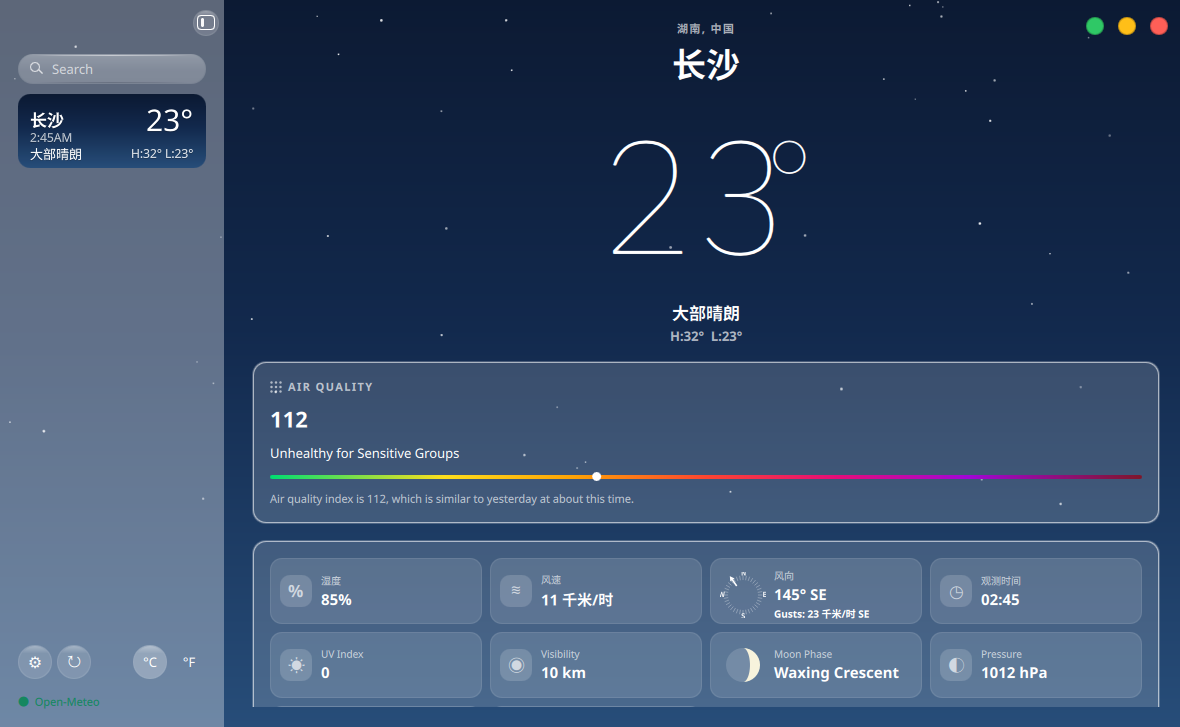
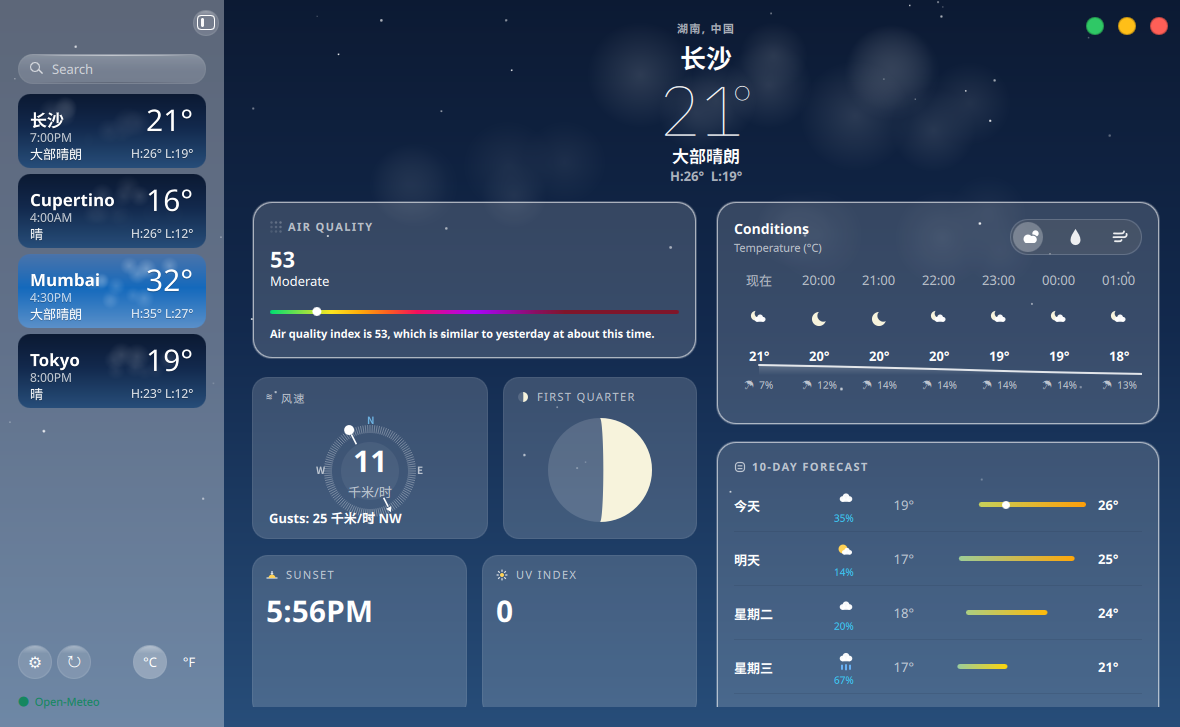
docs: round 48 进度与截图

diff --git a/docs/ui-weather/LEDGER.md b/docs/ui-weather/LEDGER.md
@@ -4,6 +4,8 @@
 参考实测色（814×498 主图采样）：天空 `#2961a7→#1469bc→#538ec9`（上→下，含云照片）；Conditions 卡 `#0057b2`；hero 文本 `#ffffff`；10天条渐变 青→黄→橙。
 
 ## 已改
+- **侧栏多城渲染实拍验证（本轮，纯验证/运维轮，零代码改动）**：dev state `/tmp/kos-weather-test-state/quickshell/shell-data-service/state.json` 的 `weather.locations` 追加 Cupertino(37.32,-122.03, America/Los_Angeles)/Mumbai(19.08,72.88, Asia/Kolkata)/Tokyo(35.69,139.69, Asia/Tokyo) 三城（≤20 城限额内）；service 重启后因 `nextRefreshAt` 未到不拉取（weather.go:755 门控）——置 0 再重启强制刷新后 4 城 summary 全部取到（长沙 20.6 夜 / Cupertino 15.7 夜 / Mumbai 32.3 昼 / Tokyo 19.2 夜）。
+  **实测**（截图 1792321838 过体检闸 ✅ 1180×727，本轮二进制 dev env）：4 城卡正确渲染——各城当地时间按各自时区（4:00AM/4:30PM/8:00PM）、温度/H·L 与 summary 一致（32.3→32°、35/27）、Mumbai 昼卡云纹理在场、夜卡月牙/淡云正常、选中卡（长沙）在顶无选中描边（贴参考）。同轮对照 tile-sidebar 参考逐项核对：结构吻合（城市名/副行/条件文字左下/H·L 右下/无边框选中态）。**顺带复核**（截图 1792321463，单城态）：左列 masonry 残差收口（见仍差 0 条勘误注）。测试 Qt 6/6 绿、go test ok。**新发现记入仍差 0d**：参考选中卡副行是 "My Location" 而非时间。
 - **10 天行温度区间条去灰色轨道（本轮，前端，零 Go/C++/shared/翻译改动，巡检轮新发现）**：巡检截图（tmp/shots/patrol-1792320809.png 过体检闸 ✅ 1180×727，dev env + KOS_SCREENSHOT_DELAY_MS=2500）对照 ref-main 逐像素测量发现——参考 10 天行**没有灰色轨道**：Thu 行（y384）渐变墨迹单独落在 x642-698（56px），其外 x702-714 采样 = 纯卡面色 (42,109,179) 与卡面其他位置同值、无任何轨道；且 5 行墨迹起止与"按全周 [最低低/最高高] 定位"模型全部吻合（低 54→x642、低 57→x648-650，~2.3px/°@814；Today 650-692、Thu 642-698、Fri 642-689、Sat 648-692，含 Today 行白点 x674-677）。我方旧轨道 Rectangle（白@0.28）实测 (117,135,159) vs 卡面 (64,89,122)，Δ+53 明显可见，属参考图不存在的发明元素。`apps/weather/qml/Main.qml` 删除 dailyRow 条形内轨道 Rectangle（原 3169-3175，7 行），渐变段与 Today 白点不动，原位补 ref 依据注释（现 3169）。
   **实测**（本轮二进制截图 tmp/shots/notrack-1792321260.png 过体检闸 ✅ 1180×727）：原轨道区 x920-970（今天行 y504）现采样 = 纯卡面 (64,89,122)，轨道消失；渐变墨迹 x~975-1085 与 Today 白点 (255,255,255)@x1010 保持原位；目视 /tmp/z-notrack.png：四行纯渐变段按周范围定位、无灰底、无裁切。
   **回归**（vs 改前 patrol-1792320809，2px 步进 diff>24）：变化 441 采样，429 落 10 天条形区 (890-1160 × 455-727)（轨道消除本体），卡外仅 12 稀疏采样 (74,2)-(994,498)（星空/时钟已知噪声族），整窗 MAE **0.092**——hero/侧栏/Conditions/瓦片零结构位移。qmllint 0 error（本轮裸路径跑法，warning 口径与既往不同未比较）。测试 Qt 6/6 绿、go test ok。本轮无动效改动，无帧差义务。
@@ -328,10 +330,13 @@
 - `shared/qml/foundation/KosApplicationWindow.qml:20`：按用户裁定，`windowCornerRadius` 32→8。注意这是共享组件，其他 modernDesign 应用窗口圆角同步变为 8px。
 
 ## 仍差（按视觉冲击排序）
+0d. **侧栏选中卡副行：参考首卡（选中=My Location 城）副行是 "My Location"，我方首卡仍显示当地时间**（本轮多城实拍新发现，前端轮候选）：ref tile-sidebar 首卡 Cupertino 选中态副行 "My Location"，其余未选卡才是当地时间（Chicago 11:41AM / Antarctica 12:41PM / Cape Town 6:41PM / Mumbai 10:11PM）；我方 4 城实拍（截图 1792321838）首卡长沙显示 "7:00PM" 与未选卡同形态。改法候选：选中卡副行显示本地化"我的位置"（需新增 qsTr 串 + en/zh 条目），仅选中卡、仅当该城为当前定位城时（本项目无"定位城"概念，暂按"选中卡"简化，依据=ref 唯一选中卡即 My Location 卡）。
+6. ~~侧栏只有 1 个城市时卡下方大片空白（参考有多城填满）；无数据可解，仅记录~~（**多城已实拍验证收口数据侧**，2026-10-18 多城轮：dev state 加 Cupertino/Mumbai/Tokyo 三城 + 强制刷新取到 summary，截图 1792321838 实拍 4 城卡正确渲染——各城当地时区时间（4:00AM/4:30PM/8:00PM）、温度、H·L、Mumbai 昼卡云纹理、选中卡在顶，均正确；卡区 y95-410 填满后下方空白随城数收缩，系数据量问题非 bug。生产单城空白维持"仅记录"）。
 0c. ~~**dailyCard（10 天卡）间歇性不渲染**~~（**已收口，见已改首条——根因是 `--screenshot` 固定 650ms 抓帧与 socket 异步数据到达的竞态，非布局 bug**；探针实证 dailyCard 代码健康（colImpl 0→401 异步、impl 437=row 值+padding 36、row/col 1/1 正确），padding 两行被探针实验排除嫌疑。**以后轮验证截图一律加 `KOS_SCREENSHOT_DELAY_MS=2500`**，遇"卡缺失"帧先加延迟重拍再怀疑布局）。
 0. **主区版式：参考是双列卡片 masonry（步 a+c 已完成，步 b 第一半=结构迁入已完成，见已改）**：ref-main（814×498）实测内容区两列——左列 AQ 卡（半宽）+ WIND/MOON PHASE 大方卡并排 + SUNSET/UV INDEX 并排，右列 Conditions 卡（含逐小时）+ 10 天卡。**步 a 已完成**（AQ+Conditions 并排两列等宽、顶对齐、列缝 ~19px）；**步 c 已完成**（10 天卡入右列）；**步 b 第一半已完成**（瓦片区入左列 AQ 下方 2 列、AQ→瓦顶 20px 精确、86px 天窗消除，见已改）。**步 b 第二半进行中（瓦片形态改参考大方卡）：WIND 卡已完成**（见已改——罗盘居中+速度环心+Gusts 底行，卡高 162 精确、数字字形 21px vs 目标 22）；**月相卡已完成**（见已改——头部相位名 caps+中央大月亮 d104，162px 高，WIND/月相对半并排 234/19/190 实测 vs 目标 235/15/193，缝 +4px 残差）；**SUNSET 卡已完成**（见已改首条——头部 glyph+SUNSET caps+左对齐大号时间 30px，162px 高、全宽跨 2 列中间态，缝 17px 精确、墨顶 +44 精确）。**UV 大方卡已完成**（见已改首条——SUNSET/UV RowLayout 等分 214/15/214，实测 213/17/213 等宽，大数字 30px ink 21px 与 SUNSET 同高；旧 66px UV 瓦删除）。**步 b 第二半至此收口：四张参考大方卡（WIND/月相/SUNSET/UV）全部成形**。剩余：湿度/观测时间/FEELS LIKE/PRESSURE/VISIBILITY 参考无对应卡，按 Apple 惯例落位——**折叠线下回流已实拍复核收口（见已改首条）**：VISIBILITY/PRESSURE 成对、FEELS LIKE 独占一格（右侧空格是否拉满待裁定）；compact 单列顺序变化（现 WIND+月相→SUNSET+UV 对半→湿度/观测时间→VISIBILITY/PRESSURE→FEELS LIKE→Conditions→10 天）**已实拍复核收口**（见已改首条——760 窄窗两 probe 实拍逐项一致、无重叠无裁切）；空态半宽**已实拍复核收口**（见已改"空态文字可读性修复"条——半宽居中渲染健康，顺带修掉标题近黑不可读缺陷）。残差：a) ~~Conditions 半宽下逐小时可见 ~3.5 列 vs ref 半宽 6 列~~（**已做**，见已改"逐小时列密度校准"——列距 60px 精确、可见 7 列）。
 0b. ~~**AQ 卡→下方瓦片区垂直间距 vs 目标 20px**~~（**已做**，见已改"AQ 卡→瓦片区间距 36→20px"；勘误：上轮记载"45px"与本轮复测不符——本轮新鲜截图 1792302298 同口径描边-描边实测 **36px**（AQ 底描边 y357 → 瓦顶描边 y393），45 系上轮口径/截图差异，本轮以 36 为准收敛 16px。归因拆清：content spacing 16 + 透明包裹卡 conditionsCard padding round(18×densityScale)≈20 = 36。）
    **巡检勘误（防未来误改）**：ref AQ 数字 "40" cap 实测 **11px**@814（y234-244，旧记载"数字底 y243"口径一致）×1.46 ≈ 16px；我方 "59" cap 15-17px（22px 字号）——**尺寸已吻合，不是残差**（本轮一度用混入 "Good" 的 bbox 误判为 23px，经 4x 放大 crop 纠正）。
+   **瓦片左缘残差收口（2026-10-18 多城验证轮实测推翻旧注记）**：旧记载"瓦片左缘 x272 vs AQ 卡左缘 x252"系 masonry 改造前的过时实测——新鲜截图 1792321463 Pillow 描边复核：AQ 卡 x252..695，WIND/月相行 x252..487 / 503..695（235/16/192 vs 目标 235/15/193），SUNSET/UV 行 x252..466 / 482..695（214/16/213 vs 等分目标 214/15/214），纵向 AQ→WIND 20px 精确、WIND→SUNSET 17px——**四张大方卡全部与 AQ 卡左/右缘对齐，缝 ≤1px 残差，该注记不再成立**。
    **间距收敛后新发现（属 0 条 masonry 范畴，本轮不动）**：瓦片左缘 x272 vs AQ 卡左缘 x252——瓦片被 conditionsCard 的 padding（≈18-19px）水平内缩，比全宽卡窄一圈，与参考"指标卡与上方卡同列对齐"不符；随 0 条双列改造一并处理。
 1. ~~hero 区垂直节奏仍比参考松 + 城市名字号偏大~~（**已做**，见已改——gap 30/27/12→17/12/9（目标 16/13/9）、城市名 34→26px；小标签→城市 gap 2px 级残差记已改注）。
 2. **阶段三动效项（≥每 3 轮推进 1 条，必须带帧差 MAE）**：已完成"夜间晴天星星闪烁""逐小时卡列表入场交错""雨天雨丝下落""雪天雪花飘移""多云/雾天云层漂移""雷电闪白""白日晴天阳光光线呼吸（见已改，雾天流动由 cloudySky 覆盖 45/48 共用云层近似）""卡片 hover 玻璃高光+抬升""刷新按钮旋转""图标 Bounce（切换城市/刷新，见已改）""图标 Variable color（太阳光线逐层点亮，见已改）""图标 Replace down-up（天气状态变化，见已改）""hero 温度滚动视差/缩放（见已改）"（均见已改，含帧差证据）。剩余：~~温度曲线 draw-on~~（**已做**，见已改"Conditions 卡温度走势曲线 + draw-on"——带帧差 MAE 证据；阶段三 B 动效清单至此**全部完成**）。**B.1 环境动效 7 条全部有实现**。本轮修了云层漂移的启动残差（见已改首条——改前启动后天空空 ~0-12s、reduce-motion 下永久无云；改后首帧即有云、reduce-motion 云静止在场）。
@@ -352,7 +357,7 @@
 ## 外推待确认
 - **10 天行轨道删除后极淡轨道不可全排除（本轮新增）**：ref 814 降采样下，若 Apple 原生带 ≤0.08 alpha 的极淡轨道，与卡面 Δ~12 可能被降采样+AA 抹到采样阈值以下——本轮按"可见像素=无轨道"删除（旧白@0.28 实测 Δ+53 远超此限，删除方向不受影响）；若日后拿到原生分辨率参考需复核。
 - **温度曲线带落位对布局偏移敏感（本轮新增）**：曲线带（Main.qml:2677-2679 band 100..110）按"content→real 偏移 +266 + 温度墨底 96 / ☂ 墨顶 114-115"标定，该偏移随 Conditions 卡头部/分段控件上方布局变动而漂移（本轮实证旧值 97..113 就是这样过期的）；未来再动卡头布局需按同法（带值→渲染 real 逐点回归）复测。曲线形态本身仍系用户裁定 1 外推（ref 无曲线），可见段占带比例随快照温度分布浮动（19° 非全天最低时带底不被触及属正常）。
-- **侧栏卡云纹理（本轮新增）**：a) 参考卡背景是**照片**，云的具体形态/覆盖不可程序化逐点复刻——3 朵×4 puff 的 puff 云系主窗 clearSkyClouds/nightClearClouds 同族近似，透明度按"ref Mumbai 夜卡 Δ~11-14 / 我方夜 Δ+35 略强、Cupertino 日卡明显更亮"折中，若要求更贴照片需整体重校；b) **晴日卡（code 0-1 日间）形态系外推**——参考 5 卡全是多云/夜间/特殊天气，无晴日卡可对照，恒显门控下晴日卡会得到 0.32 档淡云带（依据=主窗晴日云带先例），日分支本时段未实拍（服务 18:00 翻夜），下次日间巡检顺带核；c) 多城时各卡种子不同（index 派生），卡间形态差异系程序化设定（ref 各卡来自真实城市照片），方向一致不可逐卡对照；d) 夜卡云上白字可读性实测通过（Δ+35 底上峰值白字），更高 opacity 档不再上调。
+- **侧栏卡云纹理（本轮新增）**：a) 参考卡背景是**照片**，云的具体形态/覆盖不可程序化逐点复刻——3 朵×4 puff 的 puff 云系主窗 clearSkyClouds/nightClearClouds 同族近似，透明度按"ref Mumbai 夜卡 Δ~11-14 / 我方夜 Δ+35 略强、Cupertino 日卡明显更亮"折中，若要求更贴照片需整体重校；b) ~~晴日卡（code 0-1 日间）形态系外推——日分支未实拍~~（**2026-10-18 多城轮已实拍**：Mumbai 32° code 1 昼卡（截图 1792321838）云带在场、白字可读，形态与参考 Cape Town 昼卡同构；覆盖密度系程序化近似不可逐点对照的结论不变）；c) 多城时各卡种子不同（index 派生），卡间形态差异系程序化设定（ref 各卡来自真实城市照片），方向一致不可逐卡对照——多城实拍下 4 卡形态各异、无越界无裁切；d) 夜卡云上白字可读性实测通过（Δ+35 底上峰值白字），更高 opacity 档不再上调。
 - **逐小时首列 "Now"/现在的本地化与降级（本轮新增）**：a) ref-main 只证英文 "Now"，中文 "现在" 系 Apple zh 官方惯例外推；b) isCurrentHour 用 `substring(0,13)` 小时前缀比较——快照 current.time 与 hourly 首点跨小时边界（陈旧快照）时首列回落 "18:00" 形态不显 "Now"，属正确降级但未实拍；c) 行高钉死 `1.5×font.pixelSize` 系折算（比数字自然行盒高 ~1px，7 列整行均匀下移 1px、列间对齐不变）；d) en_US.ts 无 "Now" 条目（英文源串即显示值），若日后加其它 locale 需同步补条目。
 - **10 天行降水% 青蓝色值/夜景（本轮新增）**：色值取 ref-main 实测峰值 #3dcaf8（(61,202,248)@814 降采样稀释，真色更深，反解 ~#3CD6FF）——若日后拿到原生分辨率参考需校；夜间卡面下可读性未实拍（ref 无夜景，Apple 深色模式同用降水蓝的惯例系外推）；Conditions 卡逐小时 ☂ 行的伞 glyph 系无参考外推（ref 无该行），与 10 天行新形态（无伞）并存不一致是否统一待裁定。
 - **罗盘刻度环密度/带半径外推（本轮新增）**：ref 刻度带 r46-57（tile-cards 卡宽 223 比例 0.206-0.256）由对角线亮度剖面实测，但刻度根数不可数（降采样糊化+对角自相关无周期峰）——每 3°（120 根）系按"近连续羽化带"读感外推；我方带 r38-46 受卡高 162/Gusts 行约束为垂直缩放值，非卡宽比例直译；字母在带外 r50 vs 参考带内嵌；~~来向侧标记 ref 是圆头短针（3x 切片证据）vs 我方平头短线（上轮 814 证据）——指针形态修正候选下轮~~（**已收口**，见已改首条"圆头短针"；头径/头心半径的压缩折算残差移入该条残差 a/b）。刻度本色 ref 峰值仅高于卡面 +8~16 lum（糊化后），我方 白@0.30（+41 lum）偏亮可能，待更高分辨率参考再校。
